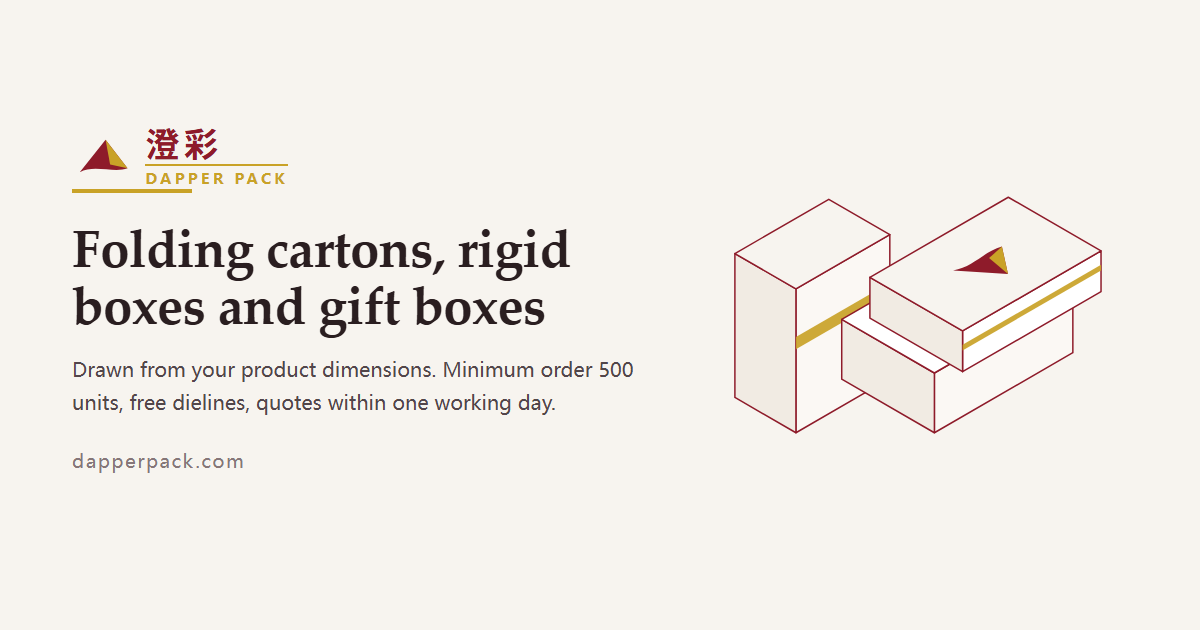
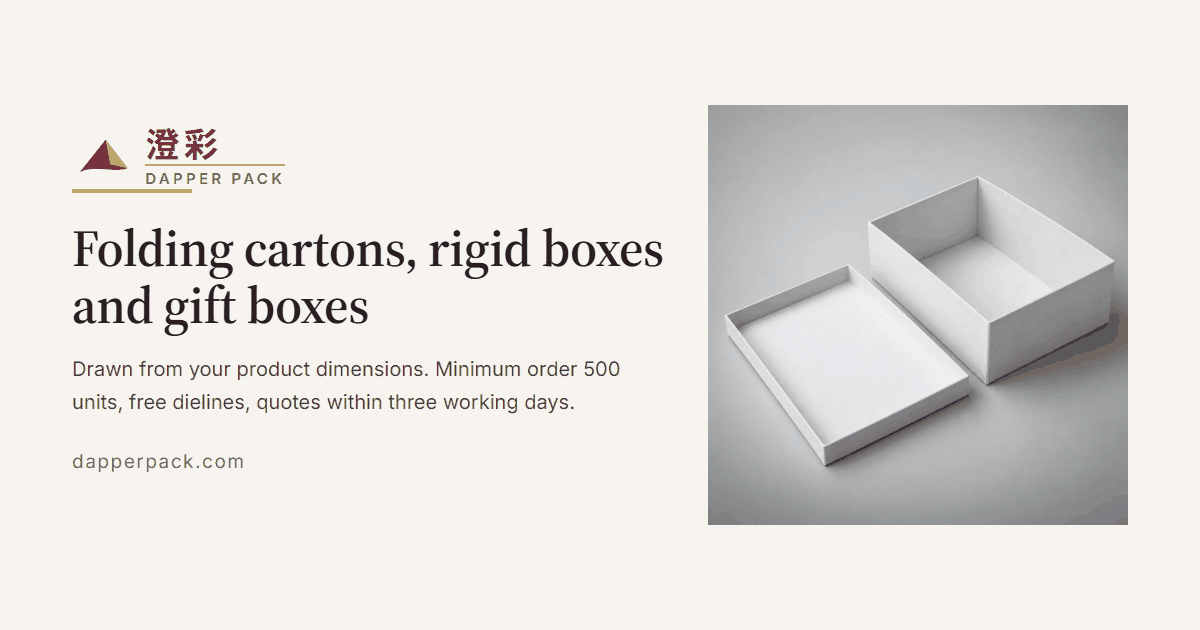
site: 首页 hero 换渲染图 + 工艺色卡换真实微距图（烫金/击凸/局部UV/软触/覆膜）；OG 卡口径修正为 three working days 并换新图；清理 7 个孤儿 webp；补栅格图三处闸门盲区；发布器改为全 blob 上传 + OG 卡压到代理阈值内

diff --git a/index.html b/index.html
@@ -8,7 +8,7 @@
 <link rel="canonical" href="https://dapperpack.com/">
 <meta name="theme-color" content="#8E1B2A">
 <link rel="icon" href="favicon.svg" type="image/svg+xml">
-<link rel="preload" href="assets/fonts/source-serif-4-600-latin.woff2" as="font" type="font/woff2" crossorigin><link rel="stylesheet" href="assets/css/site.css?v=490ce61a6b">
+<link rel="preload" href="assets/fonts/source-serif-4-600-latin.woff2" as="font" type="font/woff2" crossorigin><link rel="stylesheet" href="assets/css/site.css?v=dfbeadddfa">
 <script src="assets/js/motion.js?v=35ffd58e37" defer></script>
 <script src="assets/js/site.js?v=5c0ad583e7" defer></script>
 
@@ -118,8 +118,8 @@
           </div>
         </div>
         <figure class="hero__figure">
-          <img src="assets/img/iso-rigid.svg" width="503" height="432" loading="lazy"
-               alt="Isometric render of a rigid lid-and-base box with the lid lifted clear of the base.">
+          <img src="assets/img/hero-rigid-box.webp?v=4d3514fe75" width="1024" height="1024"
+               alt="Studio illustration of an unprinted white rigid lid-and-base box, the lid lifted off and lying flat beside the open base. Illustration, not a photograph of a delivered job.">
           <figcaption>Every structure starts from your product — not from a stock size.</figcaption>
         </figure>
       </div>
@@ -379,22 +379,26 @@
 
       <ul class="swatches">
         <li class="swatch">
-          <div class="swatch__chip chip--foil" aria-hidden="true"></div>
+          <img class="swatch__chip" src="assets/img/finish-foil.webp?v=4811f6a6d2" width="600" height="450" loading="lazy"
+               alt="Macro illustration: a crisp-edged gold foil block stamped on unprinted white board.">
           <div class="swatch__name">Foil stamping</div>
           <div class="swatch__note">Metallic or coloured foil, flat or patterned.</div>
         </li>
         <li class="swatch">
-          <div class="swatch__chip chip--emboss" aria-hidden="true"></div>
+          <img class="swatch__chip" src="assets/img/finish-emboss.webp?v=c0cf7e1af3" width="600" height="450" loading="lazy"
+               alt="Macro illustration: a blind-embossed shape in unprinted white board, lit from a low angle.">
           <div class="swatch__name">Embossing</div>
           <div class="swatch__note">Raised or debossed relief — with or without foil.</div>
         </li>
         <li class="swatch">
-          <div class="swatch__chip chip--uv" aria-hidden="true"></div>
+          <img class="swatch__chip" src="assets/img/finish-spotuv.webp?v=6fcf4749b5" width="600" height="450" loading="lazy"
+               alt="Macro illustration: a gloss spot-UV pattern catching the light over a matt white board.">
           <div class="swatch__name">Spot UV</div>
           <div class="swatch__note">Gloss highlights over a matt or soft-touch base.</div>
         </li>
         <li class="swatch">
-          <div class="swatch__chip chip--soft" aria-hidden="true"></div>
+          <img class="swatch__chip" src="assets/img/finish-softtouch.webp?v=3f844564de" width="600" height="450" loading="lazy"
+               alt="Macro illustration: the velvet surface of soft-touch lamination on unprinted white board.">
           <div class="swatch__name">Soft-touch lamination</div>
           <div class="swatch__note">Velvet hand-feel; the most-requested finish on gift boxes.</div>
         </li>

diff --git a/assets/css/site.css b/assets/css/site.css
@@ -363,7 +363,7 @@ a:hover{color:var(--red-deep)}
           list-style:none; margin:0; padding:0}
 .swatch{border:1px solid var(--line); border-radius:var(--radius); overflow:hidden;
         background:var(--white)}
-.swatch__chip{height:4.6rem; position:relative}
+.swatch__chip{display:block; width:100%; height:4.6rem; object-fit:cover}
 .swatch__name{font-size:.86rem; font-weight:600; color:var(--ink); padding:.6rem .7rem .1rem}
 .swatch__note{font-size:.78rem; color:var(--muted); padding:0 .7rem .7rem}
 
@@ -439,21 +439,11 @@ address{font-style:normal; line-height:1.72}
             max-width:100%; height:auto}
 .steps h3{margin-bottom:.2rem}
 
-/* ── 工艺色卡（用 CSS 渐变示意表面效果，不引入图片） ────────────────── */
-.chip--foil{background:
-  linear-gradient(102deg,
-    #A8851A 0%, #E3C05C 18%, #F6E6AE 30%, #C9A227 44%,
-    #8E6F14 58%, #E3C05C 74%, #F6E6AE 86%, #B9931F 100%)}
-.chip--emboss{background:
-  linear-gradient(158deg,
-    var(--white) 0%, var(--line-soft) 34%, var(--white) 48%,
-    var(--line) 66%, var(--white) 82%, var(--line-soft) 100%)}
-.chip--uv{background:
-  linear-gradient(116deg,
-    #EDE7DF 0%, #EDE7DF 38%, var(--white) 46%, var(--paper) 54%,
-    #EDE7DF 62%, #E4DCD2 100%)}
-.chip--soft{background:
-  radial-gradient(130% 100% at 28% 18%, #F5F1EA 0%, #E6DCD1 62%, #DCD1C5 100%)}
+/* ── 工艺色卡 ────────────────────────────────────────────────────────
+   2026-10-13：原先四张色卡是 CSS 渐变"示意"（注释原文"不引入图片"）。
+   现改为真实工艺微距图（finish-*.webp）——烫金/击凸/局部UV/覆膜是这家厂
+   唯一无法用文字传递的卖点，用四条渐变示意等于把最强的差异点留白。
+   四条 .chip--* 渐变规则随之删除（否则 CSS 死代码闸门会判死）。 */
 
 /* ==========================================================================
    设计升级层 v2（2026-09-18）

diff --git a/capabilities.html b/capabilities.html
@@ -8,7 +8,7 @@
 <link rel="canonical" href="https://dapperpack.com/capabilities.html">
 <meta name="theme-color" content="#8E1B2A">
 <link rel="icon" href="favicon.svg" type="image/svg+xml">
-<link rel="preload" href="assets/fonts/source-serif-4-600-latin.woff2" as="font" type="font/woff2" crossorigin><link rel="stylesheet" href="assets/css/site.css?v=490ce61a6b">
+<link rel="preload" href="assets/fonts/source-serif-4-600-latin.woff2" as="font" type="font/woff2" crossorigin><link rel="stylesheet" href="assets/css/site.css?v=dfbeadddfa">
 <script src="assets/js/motion.js?v=35ffd58e37" defer></script>
 <script src="assets/js/site.js?v=5c0ad583e7" defer></script>
 
@@ -168,6 +168,8 @@
         </div>
         <div class="card">
           <h3>Six laminations</h3>
+          <img src="assets/img/finish-lamination.webp?v=a067f81ef9" width="800" height="600" loading="lazy"
+               alt="Macro illustration: three unprinted boards side by side showing matt, gloss and soft-touch lamination.">
           <p class="small">
             Matt, gloss, soft-touch, anti-scratch, plastic-free and starlight — chosen against the
             artwork and how the box will be handled.

diff --git a/404.html b/404.html
@@ -7,7 +7,7 @@
 <meta name="description" content="That page does not exist. Links to what we make, how we work and how to request a packaging quote.">
 <meta name="theme-color" content="#8E1B2A">
 <link rel="icon" href="favicon.svg" type="image/svg+xml">
-<link rel="preload" href="assets/fonts/source-serif-4-600-latin.woff2" as="font" type="font/woff2" crossorigin><link rel="stylesheet" href="assets/css/site.css?v=490ce61a6b">
+<link rel="preload" href="assets/fonts/source-serif-4-600-latin.woff2" as="font" type="font/woff2" crossorigin><link rel="stylesheet" href="assets/css/site.css?v=dfbeadddfa">
 <script src="assets/js/motion.js?v=35ffd58e37" defer></script>
 <script src="assets/js/site.js?v=5c0ad583e7" defer></script>
 <meta name="robots" content="noindex,follow">

diff --git a/fact-sheet.html b/fact-sheet.html
@@ -8,7 +8,7 @@
 <link rel="canonical" href="https://dapperpack.com/fact-sheet.html">
 <meta name="theme-color" content="#8E1B2A">
 <link rel="icon" href="favicon.svg" type="image/svg+xml">
-<link rel="preload" href="assets/fonts/source-serif-4-600-latin.woff2" as="font" type="font/woff2" crossorigin><link rel="stylesheet" href="assets/css/site.css?v=490ce61a6b">
+<link rel="preload" href="assets/fonts/source-serif-4-600-latin.woff2" as="font" type="font/woff2" crossorigin><link rel="stylesheet" href="assets/css/site.css?v=dfbeadddfa">
 <script src="assets/js/motion.js?v=35ffd58e37" defer></script>
 <script src="assets/js/site.js?v=5c0ad583e7" defer></script>
 <meta name="robots" content="noindex,follow">

diff --git a/dieline-guide.html b/dieline-guide.html
@@ -8,7 +8,7 @@
 <link rel="canonical" href="https://dapperpack.com/dieline-guide.html">
 <meta name="theme-color" content="#8E1B2A">
 <link rel="icon" href="favicon.svg" type="image/svg+xml">
-<link rel="preload" href="assets/fonts/source-serif-4-600-latin.woff2" as="font" type="font/woff2" crossorigin><link rel="stylesheet" href="assets/css/site.css?v=490ce61a6b">
+<link rel="preload" href="assets/fonts/source-serif-4-600-latin.woff2" as="font" type="font/woff2" crossorigin><link rel="stylesheet" href="assets/css/site.css?v=dfbeadddfa">
 <script src="assets/js/motion.js?v=35ffd58e37" defer></script>
 <script src="assets/js/site.js?v=5c0ad583e7" defer></script>
 

diff --git a/reference.html b/reference.html
@@ -8,7 +8,7 @@
 <link rel="canonical" href="https://dapperpack.com/reference.html">
 <meta name="theme-color" content="#8E1B2A">
 <link rel="icon" href="favicon.svg" type="image/svg+xml">
-<link rel="preload" href="assets/fonts/source-serif-4-600-latin.woff2" as="font" type="font/woff2" crossorigin><link rel="stylesheet" href="assets/css/site.css?v=490ce61a6b">
+<link rel="preload" href="assets/fonts/source-serif-4-600-latin.woff2" as="font" type="font/woff2" crossorigin><link rel="stylesheet" href="assets/css/site.css?v=dfbeadddfa">
 <script src="assets/js/motion.js?v=35ffd58e37" defer></script>
 <script src="assets/js/site.js?v=5c0ad583e7" defer></script>
 

diff --git a/products.html b/products.html
@@ -8,7 +8,7 @@
 <link rel="canonical" href="https://dapperpack.com/products.html">
 <meta name="theme-color" content="#8E1B2A">
 <link rel="icon" href="favicon.svg" type="image/svg+xml">
-<link rel="preload" href="assets/fonts/source-serif-4-600-latin.woff2" as="font" type="font/woff2" crossorigin><link rel="stylesheet" href="assets/css/site.css?v=490ce61a6b">
+<link rel="preload" href="assets/fonts/source-serif-4-600-latin.woff2" as="font" type="font/woff2" crossorigin><link rel="stylesheet" href="assets/css/site.css?v=dfbeadddfa">
 <script src="assets/js/motion.js?v=35ffd58e37" defer></script>
 <script src="assets/js/site.js?v=5c0ad583e7" defer></script>
 

diff --git a/contact.html b/contact.html
@@ -8,7 +8,7 @@
 <link rel="canonical" href="https://dapperpack.com/contact.html">
 <meta name="theme-color" content="#8E1B2A">
 <link rel="icon" href="favicon.svg" type="image/svg+xml">
-<link rel="preload" href="assets/fonts/source-serif-4-600-latin.woff2" as="font" type="font/woff2" crossorigin><link rel="stylesheet" href="assets/css/site.css?v=490ce61a6b">
+<link rel="preload" href="assets/fonts/source-serif-4-600-latin.woff2" as="font" type="font/woff2" crossorigin><link rel="stylesheet" href="assets/css/site.css?v=dfbeadddfa">
 <script src="assets/js/motion.js?v=35ffd58e37" defer></script>
 <script src="assets/js/site.js?v=5c0ad583e7" defer></script>
 

diff --git a/verify.html b/verify.html
@@ -8,7 +8,7 @@
 <link rel="canonical" href="https://dapperpack.com/verify.html">
 <meta name="theme-color" content="#8E1B2A">
 <link rel="icon" href="favicon.svg" type="image/svg+xml">
-<link rel="preload" href="assets/fonts/source-serif-4-600-latin.woff2" as="font" type="font/woff2" crossorigin><link rel="stylesheet" href="assets/css/site.css?v=490ce61a6b">
+<link rel="preload" href="assets/fonts/source-serif-4-600-latin.woff2" as="font" type="font/woff2" crossorigin><link rel="stylesheet" href="assets/css/site.css?v=dfbeadddfa">
 <script src="assets/js/motion.js?v=35ffd58e37" defer></script>
 <script src="assets/js/site.js?v=5c0ad583e7" defer></script>
 
